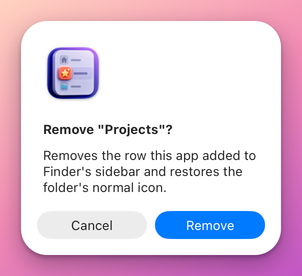
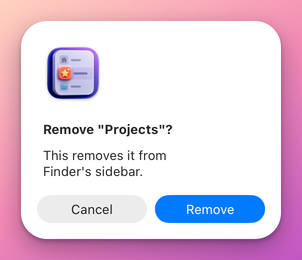
web docs: close-out — figures verified, suites green

diff --git a/web/src/content/docs/custom-svg-icons.tsx b/web/src/content/docs/custom-svg-icons.tsx
@@ -34,7 +34,7 @@ export function Body() {
       <Steps>
         <Step title={<>In the favorite editor, set <strong>Type</strong> to <strong>Custom SVG</strong>.</>} see={<>An <strong>Import SVG...</strong> button replaces the SF Symbol grid.</>} />
         <Step title={<>Click <strong>Import SVG...</strong> and choose an SVG file.</>} see={<>The file name appears with a <strong>Replace...</strong> button, and the <strong>Preview</strong> section shows your artwork.</>}>
-          <Figure shot="svg-import" alt="The favorite editor with Type set to Custom SVG, the Import SVG... button, and the Preview section showing an enlarged placeholder and a mock sidebar row named Folder Name" caption={<>Before a file is chosen, the preview shows a placeholder. After you import, <strong>Enlarged</strong> and the mock row below it show your artwork.</>} />
+          <Figure shot="svg-import" alt="The favorite editor with Type set to Custom SVG, the Import SVG... button, and the Preview section showing an enlarged placeholder and a mock sidebar row named Folder Name" caption={<>Before a file is chosen, <strong>Enlarged</strong> and the mock row below it show a placeholder. <strong>Import SVG...</strong> opens the file picker.</>} />
         </Step>
         <Step title={<>Check the <strong>Preview</strong> section.</>} see="Two views of the same silhouette: an enlarged one, and a mock sidebar row at the real size, 16 pt tall.">
           <p>The preview is what Finder will draw. If the app had to drop or flatten something, a warning row with an orange triangle appears below the preview. See <a href="#warnings">Messages from the import sheet</a>.</p>

diff --git a/web/src/content/docs/quick-start.tsx b/web/src/content/docs/quick-start.tsx
@@ -72,7 +72,7 @@ export function Body() {
       <p><strong>Browse All…</strong> opens a sheet that searches every SF Symbol this Mac can draw, by name or by keyword, so a search for <q>bin</q> finds <code>trash</code>. The number of symbols depends on your macOS version, and the empty search field states the exact count for your Mac.</p>
       <Steps>
         <Step title={<>Click <strong>Browse All…</strong>.</>} see={<>A sheet titled <q>SF Symbols</q> opens with a search field and a grid of symbols.</>}>
-          <Figure shot="symbol-browser" alt="The SF Symbols sheet with hammer typed in the search field, four matching symbols, hammer.fill selected and named at the bottom left, and Cancel and Use Symbol buttons" caption={<>A search for <q>hammer</q>. The selected symbol&rsquo;s name is at the bottom left, next to <strong>Cancel</strong> and <strong>Use Symbol</strong>.</>} />
+          <Figure shot="symbol-browser" alt="The SF Symbols sheet with a search term typed in the search field, a grid of matching symbols with one selected and its name shown at the bottom left, and Cancel and Use Symbol buttons" caption={<>Matches for a search term. The selected symbol&rsquo;s name is at the bottom left, next to <strong>Cancel</strong> and <strong>Use Symbol</strong>.</>} />
         </Step>
         <Step title="Click a symbol." see={<>The symbol is outlined, and its name appears at the bottom left of the sheet.</>}>
           <p>Double-clicking a symbol picks it and closes the sheet in one go, and the next step is then done.</p>

diff --git a/web/src/content/docs/troubleshooting.tsx b/web/src/content/docs/troubleshooting.tsx
@@ -58,7 +58,7 @@ export function Body() {
       <p>All three are in the favorite editor. Details: <DocLink to="keeping-both-icons">Keeping both icons</DocLink>.</p>
 
       <H2 id="folder-refused">The folder is refused when I add it</H2>
-      <p><strong>Cause.</strong> A folder can have only one favorite. The editor shows <q>&ldquo;Name&rdquo; already uses this folder.</q> and the text <q>A folder can only have one favorite - two would fight over the same sidebar row. Edit &ldquo;Name&rdquo; instead, or choose a different folder.</q> The <strong>Add</strong> button stays disabled until you do.</p>
+      <p><strong>Cause.</strong> A folder can have only one favorite. The editor shows <q>&lsquo;Name&rsquo; already uses this folder.</q> and the text <q>A folder can only have one favorite - two would fight over the same sidebar row. Edit &lsquo;Name&rsquo; instead, or choose a different folder.</q> The <strong>Add</strong> button stays disabled until you do.</p>
       <Table label="Ways to resolve a duplicate folder">
         <thead><tr><th>Fix</th><th>What it does</th><th>Choose it when</th></tr></thead>
         <tbody>

diff --git a/web/src/app/docs/docs.css b/web/src/app/docs/docs.css
@@ -284,7 +284,7 @@
 .dx-prose > .dx-fig, .dx-fig { margin: var(--s-6) 0 0; width: auto; max-width: 100%; display: grid; gap: var(--s-3); justify-items: start; }
 .dx-zoom { position: relative; display: block; max-width: 100%; padding: 0; border: 0; background: none; border-radius: var(--r-3); cursor: zoom-in; line-height: 0; }
 .dx-zoom picture { display: block; }
-.dx-fig img { display: block; width: auto; max-width: 100%; height: auto; border-radius: var(--r-3); }
+.dx-fig img { display: block; width: auto; max-width: 100%; height: auto; max-height: min(78vh, 760px); border-radius: var(--r-3); }
 .dx-zoom-hint { position: absolute; right: var(--s-3); bottom: var(--s-3); padding: 2px var(--s-2); border-radius: var(--r-1); background: var(--ink); color: var(--paper); font-size: var(--t-13); font-weight: 600; line-height: 1.5; opacity: 0; transition: opacity var(--t-fast) var(--ease); }
 .dx-zoom:hover .dx-zoom-hint, .dx-zoom:focus-visible .dx-zoom-hint { opacity: 1; }
 @media (hover: none) { .dx-zoom-hint { opacity: 1; } }

diff --git a/SidebarFavoritesManager/Debug/ScreenshotMode.swift b/SidebarFavoritesManager/Debug/ScreenshotMode.swift
@@ -243,7 +243,7 @@ enum ScreenshotRunner {
         ("alert-update", "A new version is available",
          "SidebarFavorites 1.2.3 is out. You have \(UpdateChecker.runningVersion).", ["Download", "Later"], .informational),
         ("alert-remove-favorite", "Remove \"Projects\"?",
-         "Removes the row this app added to Finder's sidebar and restores the folder's normal icon.", ["Remove", "Cancel"], .warning),
+         "This removes it from Finder's sidebar.", ["Remove", "Cancel"], .warning),
         ("alert-turn-off", "Turn Off \"Projects\"?",
          "This app added this row to Finder's sidebar. Turning it off removes the row entirely; turning it back on re-adds it at the bottom of the list, not its original position.",
          ["Turn Off and Remove Row", "Cancel"], .warning),
